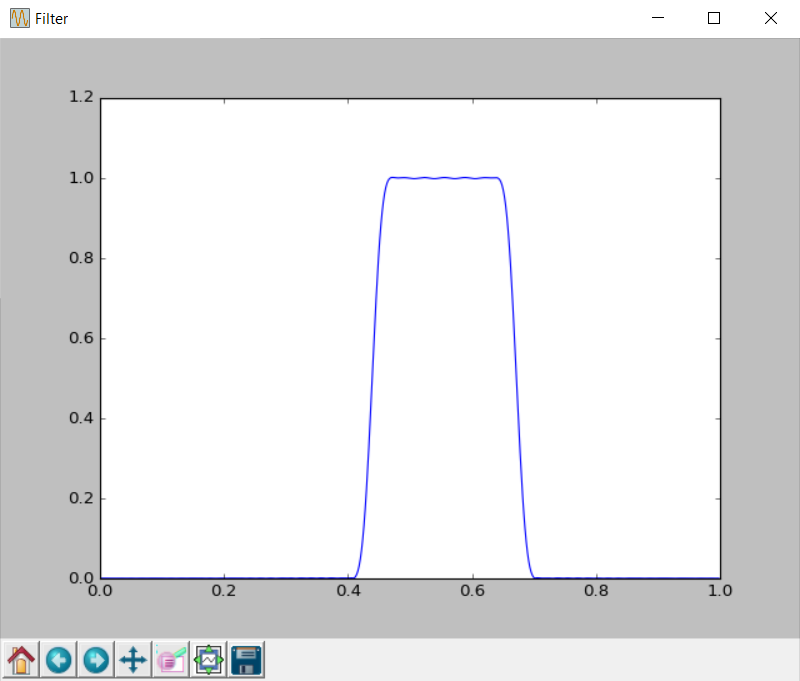
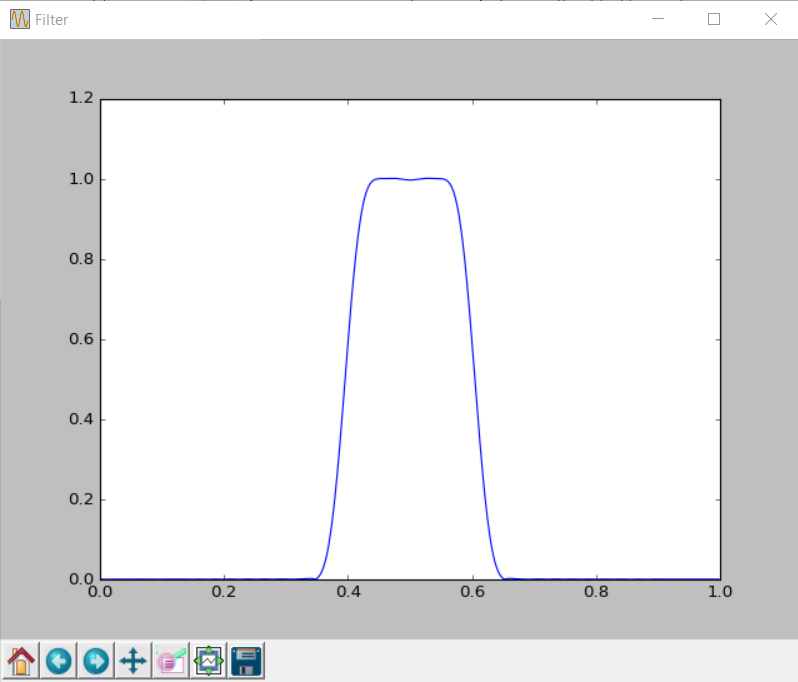
fixed homework

diff --git a/Homework6/homework.py b/Homework6/homework.py
@@ -1,17 +1,17 @@
 from scipy.signal import firwin2, lfilter, freqz
 
-from pylab import plot, figure
+from pylab import plot, figure, show, legend
 
 from numpy import pi, linspace, sin
 
 from numpy.fft import fft
 
-ORDER = 125
+ORDER = 75
 
 
-def signal(f_sample, f_list):
+def signal(sample_freq, f_list):
     result = 0
-    t = linspace(0, 1, f_sample)
+    t = linspace(0, 1, sample_freq)
     for freq in f_list:
         result += sin(2 * pi * freq * t)
     return result
@@ -44,20 +44,21 @@ def multiple_bandpass_fir_filter(intervals, f_max, order=ORDER):
 
     return firwin2(order, freq, gain)
 
-
+f_sample = 200
 sin_list = [15, 40, 60, 90]
-fir_filter = multiple_bandpass_fir_filter([(40, 60)], max(sin_list))
+fir_filter = multiple_bandpass_fir_filter([(40, 60)], f_sample / 2)
 w, h = freqz(fir_filter)
 
 figure("Filter")
 plot(w / pi, abs(h))
 
-test_signal = signal(200, sin_list)
-s = fft(test_signal)
-figure("Before filtration")
-plot(abs(s)[1: len(s) / 2])
-
+test_signal = signal(f_sample, sin_list)
+signal_fourier = fft(test_signal)
 filtered_signal = lfilter(fir_filter, 1, test_signal)
-s = fft(filtered_signal)
-figure("After filtration")
-plot(abs(s)[1: len(s) / 2])
+filtered_signal_fourier = fft(filtered_signal)
+
+figure("Signal")
+plot(abs(signal_fourier[0:len(signal_fourier) / 2]), color='blue', label='After filtration')
+plot(abs(filtered_signal_fourier[0:len(filtered_signal_fourier) / 2]), color='red', label='Before filtration')
+legend()
+show()
